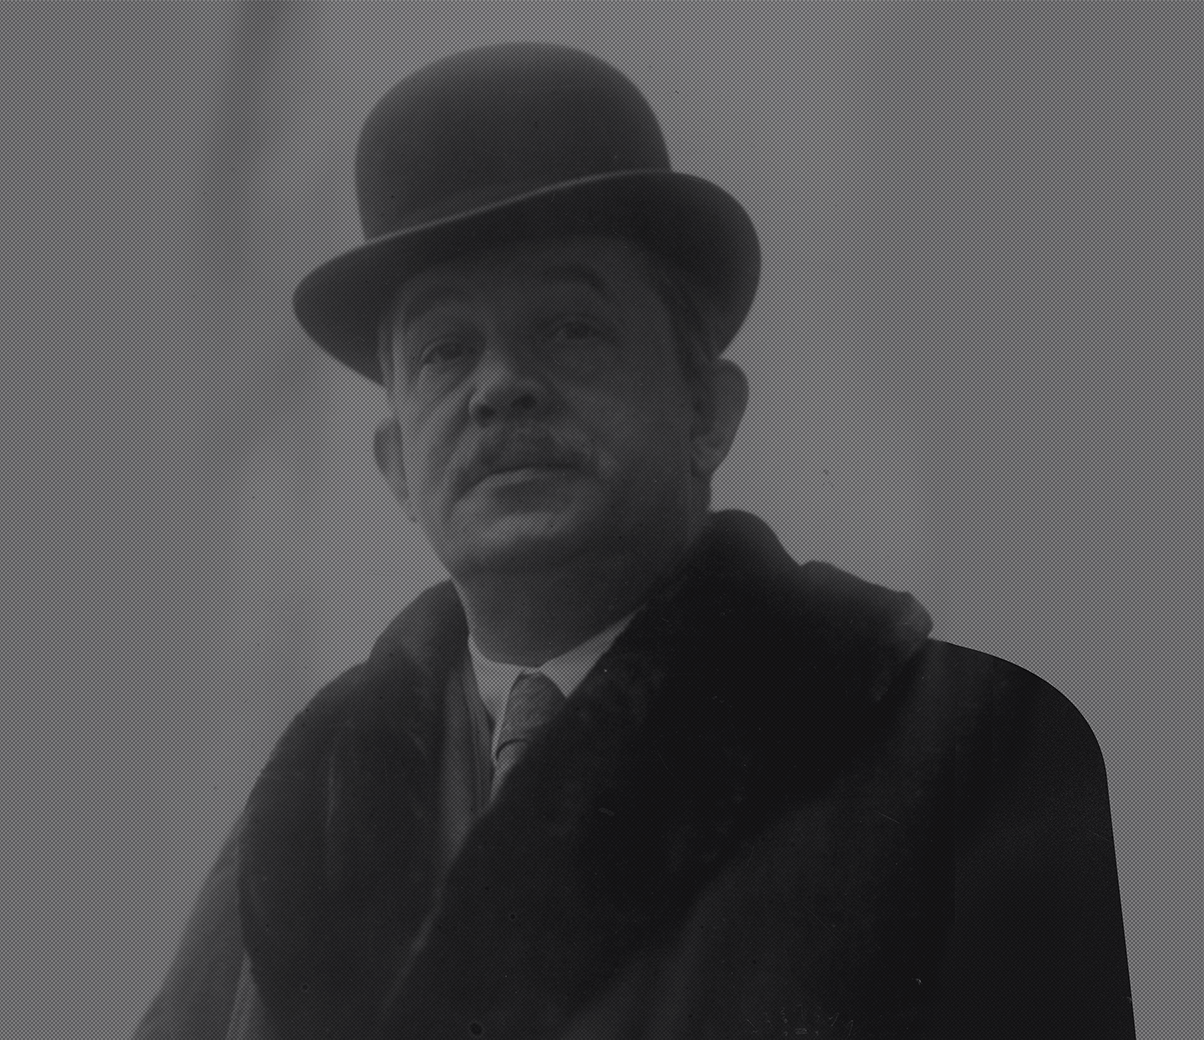
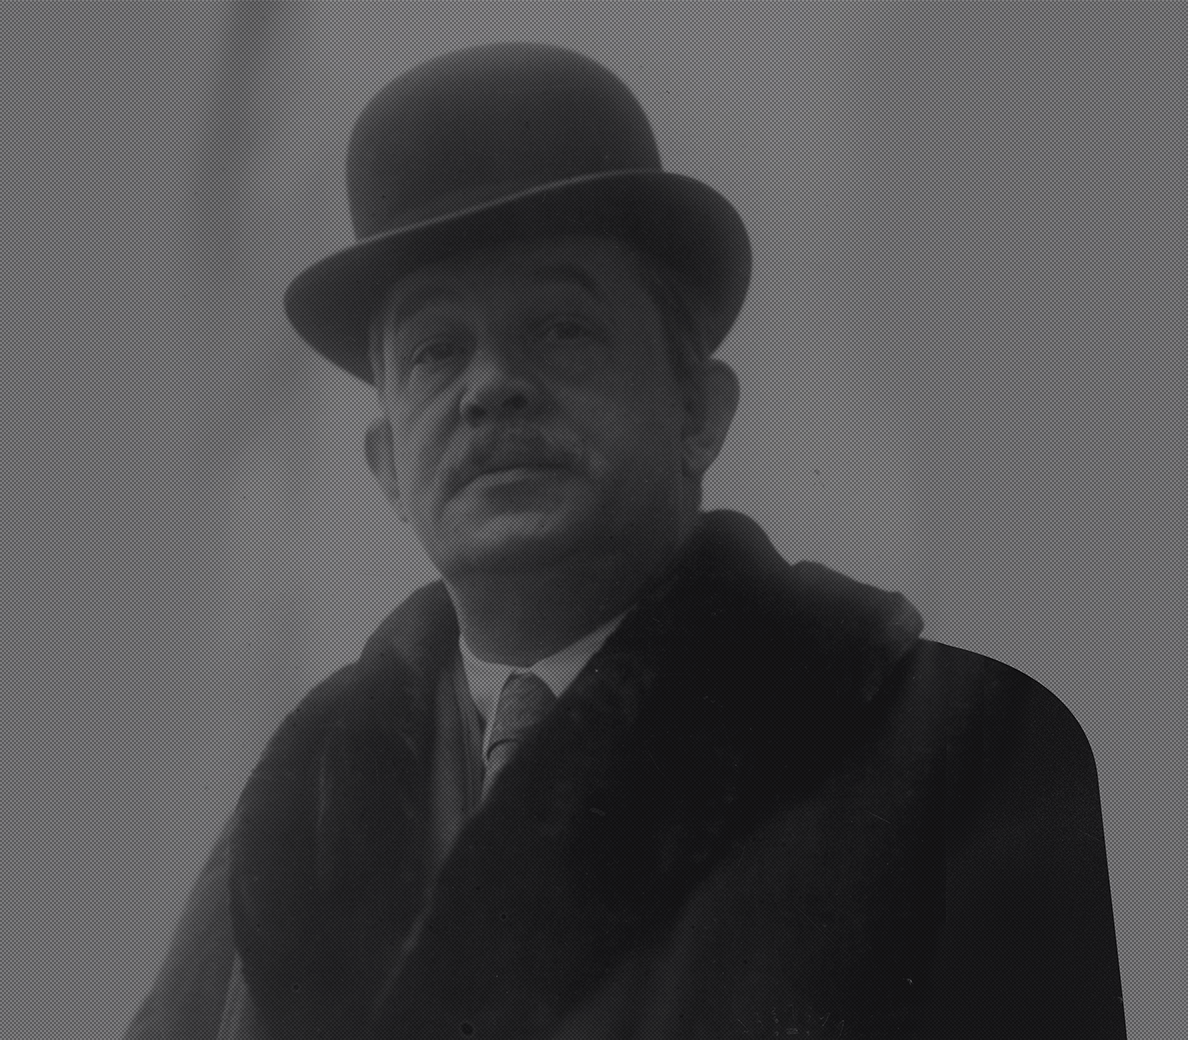
korfanty bg - mniejszy i przesunięcie w prawo

diff --git a/src/Components/Page/Page.jsx b/src/Components/Page/Page.jsx
@@ -59,9 +59,9 @@ const Page = props => {
         }`}
         style={{
           backgroundImage: `url(${props.content.bg})`,
-          backgroundPositionX: -7.1 + imgStyle.X + "rem",
-          
-
+          backgroundPositionX: props.content.menuItems[0].label == 'Wojciech Korfanty'? -2.5 + imgStyle.X + "rem" : -7.1 + imgStyle.X + "rem",
+          backgroundSize: props.content.menuItems[0].label == 'Wojciech Korfanty'? '55rem' : '70rem',
+          backgroundRepeat: props.content.menuItems[0].label == 'Wojciech Korfanty'? 'repeat' : 'no-repeat'
         }}
       >
         <div className="ps__page__left__title">

diff --git a/src/Components/Page/Page.scss b/src/Components/Page/Page.scss
@@ -12,9 +12,7 @@
     padding-bottom: 3.75rem;
     justify-content: space-between;
     padding-right: 1%;
-    background-size: 70rem;
     background-position: center;
-    background-repeat: no-repeat;
     transition: all 3s cubic-bezier(0.32, 0.63, 0, 0.63);
     transition-delay: 0.2s;
     position: relative;
